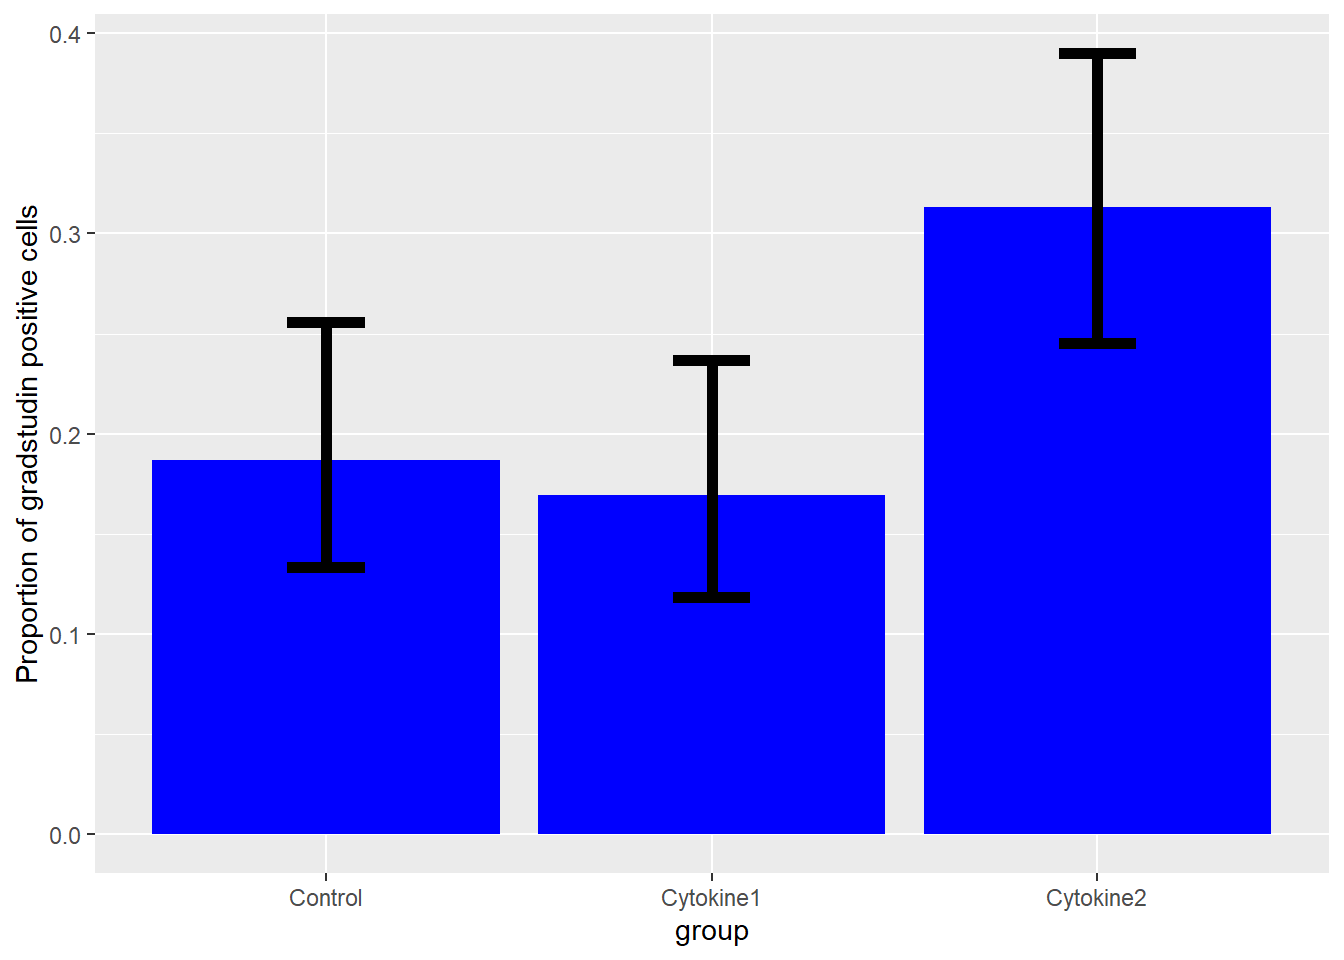
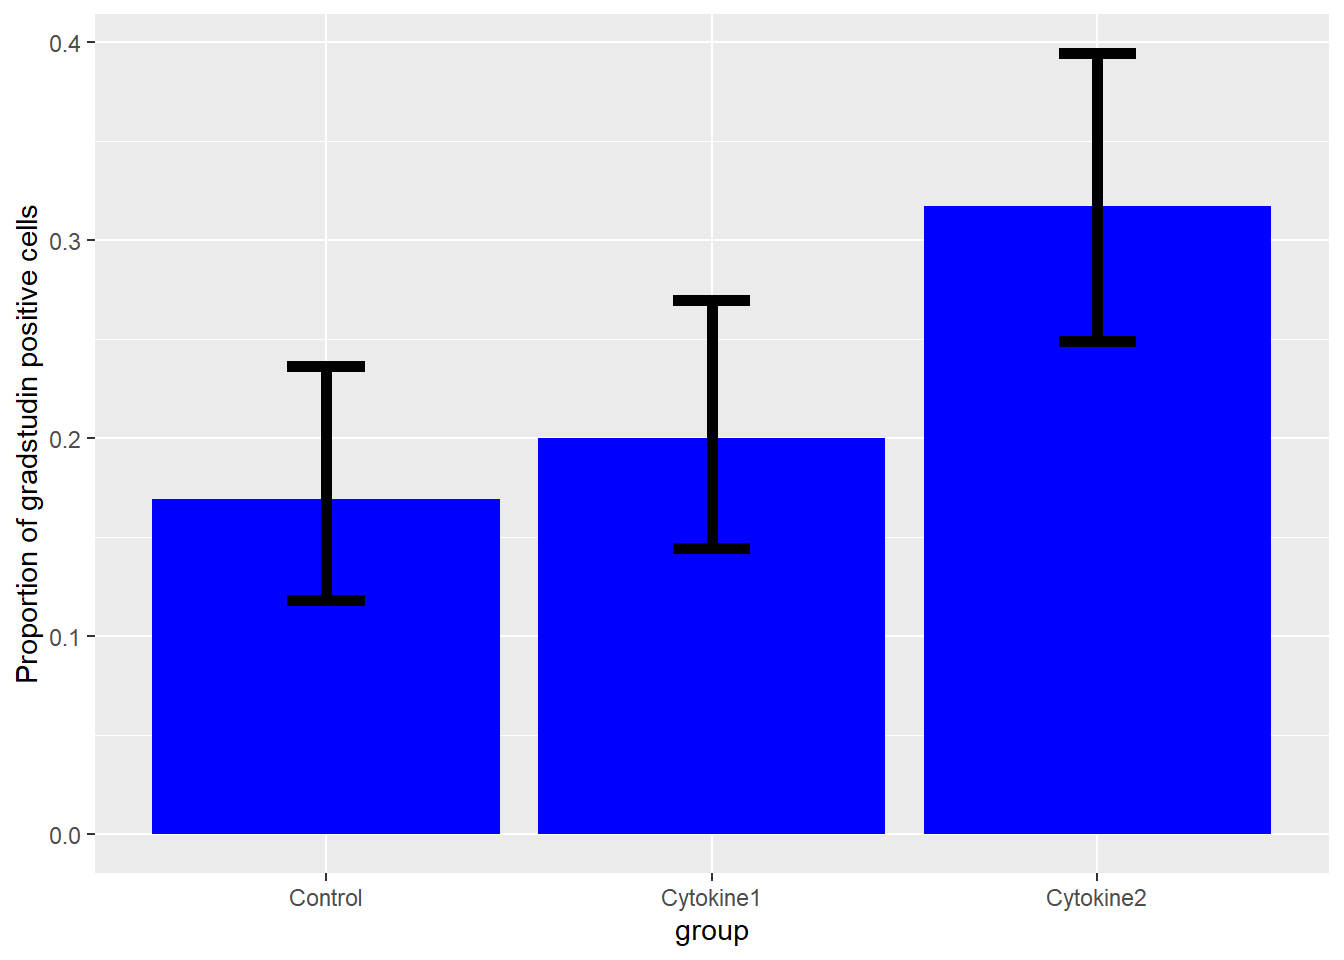
figure legends added

diff --git a/docs/categorical.html b/docs/categorical.html
@@ -1377,7 +1377,7 @@ one
 wildtype
 </td>
 <td style="text-align:right;">
-99
+107
 </td>
 </tr>
 <tr>
@@ -1388,7 +1388,7 @@ two
 wildtype
 </td>
 <td style="text-align:right;">
-117
+109
 </td>
 </tr>
 <tr>
@@ -1399,7 +1399,7 @@ three
 wildtype
 </td>
 <td style="text-align:right;">
-100
+93
 </td>
 </tr>
 <tr>
@@ -1410,7 +1410,7 @@ one
 mutant
 </td>
 <td style="text-align:right;">
-137
+131
 </td>
 </tr>
 <tr>
@@ -1421,7 +1421,7 @@ two
 mutant
 </td>
 <td style="text-align:right;">
-152
+156
 </td>
 </tr>
 <tr>
@@ -1467,10 +1467,10 @@ one
 wildtype
 </td>
 <td style="text-align:right;">
-36
+31
 </td>
 <td style="text-align:right;">
-66
+69
 </td>
 </tr>
 <tr>
@@ -1484,7 +1484,7 @@ wildtype
 32
 </td>
 <td style="text-align:right;">
-69
+71
 </td>
 </tr>
 <tr>
@@ -1495,10 +1495,10 @@ three
 wildtype
 </td>
 <td style="text-align:right;">
-24
+31
 </td>
 <td style="text-align:right;">
-72
+70
 </td>
 </tr>
 <tr>
@@ -1509,10 +1509,10 @@ one
 mutant
 </td>
 <td style="text-align:right;">
-65
+55
 </td>
 <td style="text-align:right;">
-39
+42
 </td>
 </tr>
 <tr>
@@ -1523,10 +1523,10 @@ two
 mutant
 </td>
 <td style="text-align:right;">
-62
+59
 </td>
 <td style="text-align:right;">
-37
+44
 </td>
 </tr>
 <tr>
@@ -1537,10 +1537,10 @@ three
 mutant
 </td>
 <td style="text-align:right;">
-57
+60
 </td>
 <td style="text-align:right;">
-42
+30
 </td>
 </tr>
 </tbody>
@@ -1614,7 +1614,7 @@ mutant
 <a class="sourceLine" id="cb64-2" title="2">  <span class="fl">0.15</span>, <span class="fl">0.2</span>, <span class="dv">905</span>, <span class="dv">905</span>, <span class="fl">0.05</span>, </a>
 <a class="sourceLine" id="cb64-3" title="3">  <span class="dt">alternative =</span> <span class="st">&quot;two.sided&quot;</span></a>
 <a class="sourceLine" id="cb64-4" title="4">  )</a></code></pre></div>
-<pre><code>## [1] 0.74</code></pre>
+<pre><code>## [1] 0.77</code></pre>
 <div id="monte-carlo-power-simulations" class="section level4">
 <h4><span class="header-section-number">17.9.0.1</span> Monte Carlo power simulations</h4>
 <p>The Monte Carlo is a general technique in statistical computing to randomly repeat some calculation or process. Monte Carlo is the basis of all sorts of things, like permutation analyses, machine learning, fitting Bayesian models to datasets and more.</p>
@@ -1671,7 +1671,7 @@ mutant
 <a class="sourceLine" id="cb66-40" title="40"></a>
 <a class="sourceLine" id="cb66-41" title="41">power &lt;-<span class="st"> </span><span class="kw">length</span>(<span class="kw">which</span>(t1 <span class="op">&lt;</span><span class="st"> </span>alpha))<span class="op">/</span>sims</a>
 <a class="sourceLine" id="cb66-42" title="42">power</a></code></pre></div>
-<pre><code>## [1] 0.808</code></pre>
+<pre><code>## [1] 0.786</code></pre>
 </div>
 </div>
 </div>
@@ -1700,7 +1700,12 @@ mutant
 <a class="sourceLine" id="cb70-6" title="6">   )</a>
 <a class="sourceLine" id="cb70-7" title="7">  ) <span class="op">+</span></a>
 <a class="sourceLine" id="cb70-8" title="8"><span class="st">  </span><span class="kw">geom_bar</span>(<span class="dt">stat=</span><span class="st">&quot;identity&quot;</span>, <span class="dt">fill=</span><span class="kw">c</span>(<span class="st">&quot;red&quot;</span>, <span class="st">&quot;blue&quot;</span>))</a></code></pre></div>
-<p><img src="jabstb_files/figure-html/unnamed-chunk-31-1.png" width="672" /></p>
+<div class="figure"><span id="fig:unnamed-chunk-31"></span>
+<img src="jabstb_files/figure-html/unnamed-chunk-31-1.png" alt="Stacked bar plots of raw counts can be difficult to interpret" width="672" />
+<p class="caption">
+Figure 17.1: Stacked bar plots of raw counts can be difficult to interpret
+</p>
+</div>
 </div>
 <div id="side-by-side-bar-chart" class="section level5">
 <h5><span class="header-section-number">17.10.0.0.2</span> Side-by-side bar chart</h5>
@@ -1715,14 +1720,19 @@ mutant
 <a class="sourceLine" id="cb71-7" title="7">   )</a>
 <a class="sourceLine" id="cb71-8" title="8">  ) <span class="op">+</span></a>
 <a class="sourceLine" id="cb71-9" title="9"><span class="st">  </span><span class="kw">geom_bar</span>(<span class="dt">stat=</span><span class="st">&quot;identity&quot;</span>, <span class="dt">fill =</span> <span class="kw">c</span>(<span class="st">&quot;red&quot;</span>, <span class="st">&quot;blue&quot;</span>))</a></code></pre></div>
-<p><img src="jabstb_files/figure-html/unnamed-chunk-32-1.png" width="672" /></p>
+<div class="figure"><span id="fig:unnamed-chunk-32"></span>
+<img src="jabstb_files/figure-html/unnamed-chunk-32-1.png" alt="Side-by-side bar charts make it easier to see difference between raw counts." width="672" />
+<p class="caption">
+Figure 17.2: Side-by-side bar charts make it easier to see difference between raw counts.
+</p>
+</div>
 </div>
 <div id="plot-proportions-with-confidence-intervals" class="section level5">
 <h5><span class="header-section-number">17.10.0.0.3</span> Plot proportions with confidence intervals</h5>
 <p>However, adding confidence intervals to bar plots of proportions is a good way to visualize the uncertainty of counted data and comparing to other proportions.</p>
 <table>
 <caption>
-<span id="tab:unnamed-chunk-33">Table 17.3: </span>Hypothetical counts of gradstudin-stained T cells
+<span id="tab:unnamed-chunk-33">Table 17.3: </span>Hypothetical counts of gradstudin-stained T cells, myCounts
 </caption>
 <thead>
 <tr>
@@ -1743,17 +1753,6 @@ neg
 Control
 </td>
 <td style="text-align:right;">
-43
-</td>
-<td style="text-align:right;">
-187
-</td>
-</tr>
-<tr>
-<td style="text-align:left;">
-Cytokine1
-</td>
-<td style="text-align:right;">
 39
 </td>
 <td style="text-align:right;">
@@ -1762,13 +1761,24 @@ Cytokine1
 </tr>
 <tr>
 <td style="text-align:left;">
+Cytokine1
+</td>
+<td style="text-align:right;">
+46
+</td>
+<td style="text-align:right;">
+184
+</td>
+</tr>
+<tr>
+<td style="text-align:left;">
 Cytokine2
 </td>
 <td style="text-align:right;">
-72
+73
 </td>
 <td style="text-align:right;">
-158
+157
 </td>
 </tr>
 </tbody>
@@ -1786,7 +1796,7 @@ Cytokine2
 <div class="figure"><span id="fig:unnamed-chunk-34"></span>
 <img src="jabstb_files/figure-html/unnamed-chunk-34-1.png" alt="You can infer two proportions differ from plots when their confidence intervals do not overlap. " width="672" />
 <p class="caption">
-Figure 17.1: You can infer two proportions differ from plots when their confidence intervals do not overlap.
+Figure 17.3: You can infer two proportions differ from plots when their confidence intervals do not overlap.
 </p>
 </div>
 </div>
